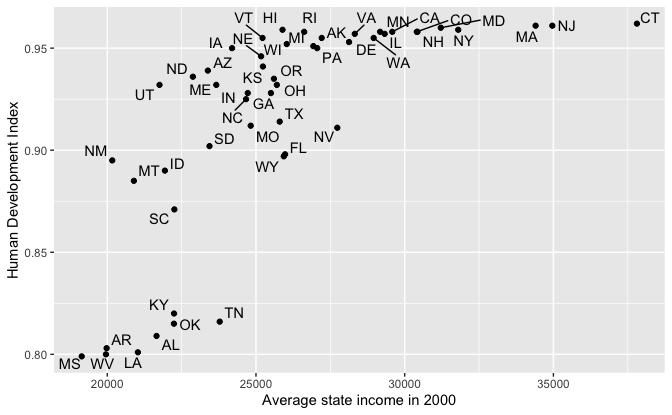
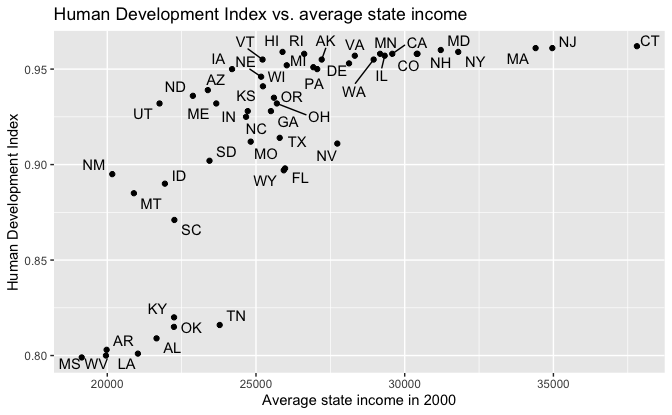
Initial commit

diff --git a/HDI/hdi_tv.md b/HDI/hdi_tv.md
@@ -1,17 +1,11 @@
 Regression and Other Stories: Human Development Index
 ================
 Andrew Gelman, Jennifer Hill, Aki Vehtari
-2020-12-18
+2021-02-03
 
--   [Data](#data)
--   [Plots](#plots)
-    -   [Average state income and Human Development
-        Index](#average-state-income-and-human-development-index)
-    -   [Rank of state income and Human Development
-        Index](#rank-of-state-income-and-human-development-index)
-    -   [Human Development Index by
-        state](#human-development-index-by-state)
-    -   [Distance from Canada](#distance-from-canada)
+-   [2 Data and measurement](#data-and-measurement)
+    -   [2.1 Examining where data come
+        from](#examining-where-data-come-from)
 
 Tidyverse version by Bill Behrman.
 
@@ -39,7 +33,11 @@ file_common <- here::here("_common.R")
 source(file_common)
 ```
 
-## Data
+# 2 Data and measurement
+
+## 2.1 Examining where data come from
+
+Data.
 
 ``` r
 hdi <- 
@@ -135,9 +133,7 @@ hdi_income
     #> 10 Rhode Isl… 0.958       10           3 RI              26620.               18
     #> # … with 41 more rows
 
-## Plots
-
-### Average state income and Human Development Index
+Average state income and Human Development Index.
 
 ``` r
 hdi_income %>% 
@@ -146,6 +142,7 @@ hdi_income %>%
   geom_point() +
   ggrepel::geom_text_repel(aes(label = state_abbr)) +
   labs(
+    title = "Human Development Index vs. average state income",
     x = "Average state income in 2000",
     y = "Human Development Index"
   )
@@ -153,7 +150,7 @@ hdi_income %>%
 
 <img src="hdi_tv_files/figure-gfm/unnamed-chunk-6-1.png" width="100%" />
 
-### Rank of state income and Human Development Index
+Rank of state income and Human Development Index.
 
 ``` r
 hdi_income %>% 
@@ -164,14 +161,15 @@ hdi_income %>%
   scale_x_reverse() +
   scale_y_reverse() +
   labs(
-    x = "Rank of state income in 2000",
-    y = "Rank of Human Development Index"
+    title = "Human Development Index rank vs. state income rank",
+    x = "State income rank in 2000",
+    y = "Human Development Index rank"
   )
 ```
 
 <img src="hdi_tv_files/figure-gfm/unnamed-chunk-7-1.png" width="100%" />
 
-### Human Development Index by state
+Human Development Index by state.
 
 Boundaries for U.S. states using [ussf
 package](https://github.com/dcl-docs/ussf).
@@ -219,7 +217,7 @@ us_hdi %>%
 
 <img src="hdi_tv_files/figure-gfm/unnamed-chunk-11-1.png" width="100%" />
 
-### Distance from Canada
+Distance from Canada.
 
 ``` r
 us_hdi %>% 
